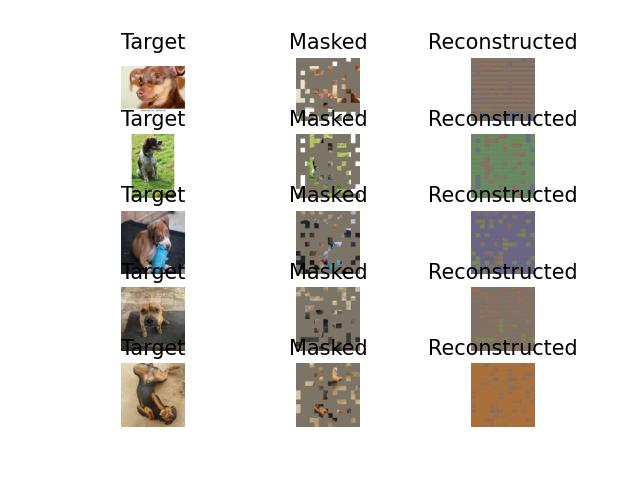
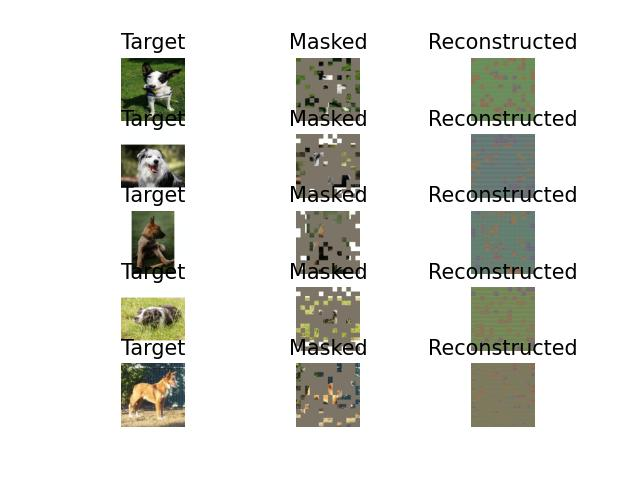
added sin/cos positional encoder

diff --git a/models/mae.py b/models/mae.py
@@ -7,10 +7,11 @@ sys.path.append(os.path.dirname(os.path.dirname(os.path.abspath(__file__))))
 
 import torch
 import torch.nn as nn
+import einops
 from .patch_embed import PatchEmbed
 from .transformer_encoder import TransformerNetwork 
 from .random_masking import RandomMasking
-
+from .positional_encoder import PositionalEncoder
 
 
 class MaskedAutoEncoder(nn.Module):
@@ -67,9 +68,14 @@ class MaskedAutoEncoder(nn.Module):
         
         #we initialize with zeros because we will be populating them later with normal distribution or any other dist.
         self.cls_token = nn.Parameter(torch.zeros(1, 1, encoder_embedding_dim)).to(device) 
-        #we will be using learnable parameters as positional embedding vector. The +1 is for the CLS token.
-        self.encoder_pos_embed = nn.Parameter(torch.zeros(1, self.num_patches + 1, encoder_embedding_dim)).to(device)
+
+        # #we will be using learnable parameters as positional embedding vector. The +1 is for the CLS token.
+        # self.encoder_pos_embed = nn.Parameter(torch.zeros(1, self.num_patches + 1, encoder_embedding_dim)).to(device)
         
+        self.encoder_pos_embed = PositionalEncoder(token_length=self.num_patches+1, 
+                                                            output_dim=encoder_embedding_dim, 
+                                                            n=10000, 
+                                                            device=self.device)
 
         self.encoder_transformer_blocks = TransformerNetwork(device=device,
                                                             input_dim=encoder_embedding_dim,
@@ -88,7 +94,12 @@ class MaskedAutoEncoder(nn.Module):
         self.decoder_embed = nn.Linear(encoder_embedding_dim, decoder_embedding_dim, bias=True).to(device)
 
         self.mask_token = nn.Parameter(torch.zeros(1, 1, decoder_embedding_dim)).to(device)
-        self.decoder_pos_embed = nn.Parameter(torch.zeros(1, self.num_patches + 1, decoder_embedding_dim)).to(device) #+1 for the cls token at dim 1.
+        # self.decoder_pos_embed = nn.Parameter(torch.zeros(1, self.num_patches + 1, decoder_embedding_dim)).to(device) #+1 for the cls token at dim 1.
+        self.decoder_pos_embed = PositionalEncoder(token_length=self.num_patches+1, 
+                                                    output_dim=decoder_embedding_dim, 
+                                                    n=10000, 
+                                                    device=self.device)
+
 
         self.decoder_transformer_blocks = TransformerNetwork(device=device,
                                                              input_dim=decoder_embedding_dim,
@@ -139,13 +150,16 @@ class MaskedAutoEncoder(nn.Module):
 
         x = self.patch_embed(x) #patch embedding as in traditional ViT.
         
-        x = x + self.encoder_pos_embed[:, 1:, :] #the cls token is not yet appended to the patch embedding. We will add the cls token after masking. Hence the pos embed is excluded of the cls token index as well.
+        encoder_pos_embed_tensor = self.encoder_pos_embed()
+        encoder_pos_embed_tensor = einops.repeat(encoder_pos_embed_tensor.unsqueeze(0), '() p e -> b p e', b=x.size(0))
+
+        x = x + encoder_pos_embed_tensor[:, 1:, :] #the cls token is not yet appended to the patch embedding. We will add the cls token after masking. Hence the pos embed is excluded of the cls token index as well.
         
 
         x, mask, idxs_reverse_shuffle  = self.random_masking(x) #perform random masking per batch.
 
         #append cls token
-        cls_token = self.cls_token + self.encoder_pos_embed[:, :1, :] #add the positional embedding for cls token only.
+        cls_token = self.cls_token + encoder_pos_embed_tensor[:, :1, :] #add the positional embedding for cls token only.
         cls_token = cls_token.expand(x.shape[0], -1, -1) #-1 means not changing the size of that dimension.
         x = torch.cat((cls_token, x), dim=1)
 
@@ -173,7 +187,11 @@ class MaskedAutoEncoder(nn.Module):
         x_ = torch.gather(x_, dim=1, index=idxs_reverse_shuffle.unsqueeze(-1).repeat(1, 1, x.shape[2])) #this will unshuffle the tensor to the original position. In other words, the masked patches will now have mask tokens in their place while the unmasked patches will have the output from the encoder.
         x = torch.cat([x[:, :1, :], x_], dim=1) #append back the CLS token from the original x.
 
-        x = x + self.decoder_pos_embed 
+
+        decoder_pos_embed_tensor = self.decoder_pos_embed()
+        decoder_pos_embed_tensor = einops.repeat(decoder_pos_embed_tensor.unsqueeze(0), '() p e -> b p e', b=x.size(0))
+
+        x = x + decoder_pos_embed_tensor
 
         x = self.decoder_transformer_blocks(x)
 

diff --git a/models/positional_encoder.py b/models/positional_encoder.py
@@ -1,0 +1,51 @@
+'''Module to produce a positional encoding matrix.
+'''
+
+import math
+import torch
+
+
+class PositionalEncoder:
+    '''Sine and Cosine positional encoder module.
+    '''
+
+    def __init__(self, token_length, output_dim, n=1000, device='cpu'):
+        '''Param init.
+        '''
+
+        self.device = device
+        self.token_length = token_length
+        self.output_dim = output_dim
+        self.n = n
+        self.P = torch.zeros((token_length, output_dim), requires_grad=False).to(device)
+
+
+    def calc_pos_embedding(self):
+        '''Calculate the positional embedding matrix.
+        '''
+        k = torch.arange(start=0, end=self.token_length, requires_grad=False).to(self.device)
+        i = torch.arange(start=0, end=math.ceil(self.output_dim/2),requires_grad=False).to(self.device)
+
+        denominators = torch.pow(self.n, torch.div(torch.mul(i, 2), self.output_dim)).to(self.device)
+
+        stacked_denominators = denominators.reshape(1,-1).repeat_interleave(self.token_length, dim=0)
+
+        values = torch.div(k, stacked_denominators.transpose(0,1)).to(self.device)
+
+        self.P.transpose(0,1)[::2] = torch.sin(values).to(self.device)
+
+        try:
+            self.P.transpose(0,1)[1::2] = torch.cos(values).to(self.device)
+
+        except RuntimeError:
+            self.P.transpose(0,1)[1::2] = torch.cos(values[:-1]).to(self.device)
+
+        return None
+
+
+    def __call__(self):
+
+        self.calc_pos_embedding()
+
+        return self.P.detach() #make sure there's no gradient flow to this positional encoding matrix.
+
